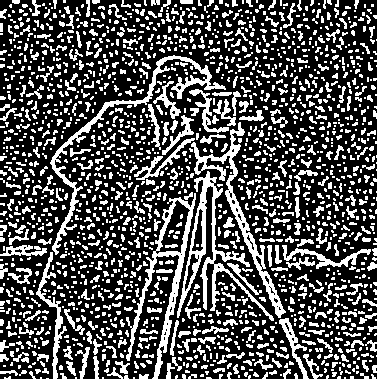
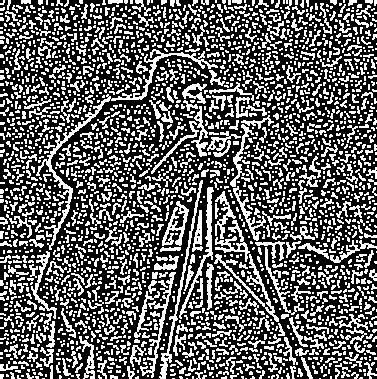
.

diff --git a/Combined/Laplacian/code.py b/Combined/Laplacian/code.py
@@ -7,7 +7,7 @@ image=cv2.cvtColor(image, cv2.COLOR_BGR2GRAY)
 kernel=np.array([[0, -1, 0], [-1, 4, -1], [0, -1, 0]])
 structural_element=np.array([[1, 1], [1, 1]])
 
-gaussian=cv2.GaussianBlur(image, (5, 5), 2)
+gaussian=cv2.GaussianBlur(image, (3, 3), 2)
 border1=cv2.filter2D(gaussian, -1, kernel)
 result, border1=cv2.threshold(border1, 0, 255, cv2.THRESH_BINARY+cv2.THRESH_OTSU)
 border1=cv2.erode(border1, structural_element, iterations=1)
@@ -16,7 +16,7 @@ border1=cv2.erode(border1, structural_element, iterations=1)
 border1=cv2.dilate(border1, structural_element, iterations=1)
 cv2.imwrite('border1.png', border1)
 
-gaussian1=cv2.GaussianBlur(image, (7, 7), 2)
+gaussian1=cv2.GaussianBlur(image, (3, 3), 2)
 gaussian2=cv2.GaussianBlur(image, (5, 5), 2)
 border2=gaussian2-gaussian1
 result, border2=cv2.threshold(border2, 0, 255, cv2.THRESH_BINARY+cv2.THRESH_OTSU)

diff --git a/Combined/Border/code.py b/Combined/Border/code.py
@@ -6,6 +6,6 @@ kernel=np.array([[1, 1, 1], [1, 1, 1], [1, 1, 1]])
 image=cv2.cvtColor(image, cv2.COLOR_BGR2GRAY)
 result, threshold=cv2.threshold(image, 0, 255, cv2.THRESH_BINARY+cv2.THRESH_OTSU)
 dilate=cv2.dilate(threshold, kernel, iterations=1)
-image=dilate-threshold
-dilate=cv2.dilate(image, kernel, iterations=1)
-cv2.imwrite('border.png', dilate)
+erode=cv2.erode(threshold, kernel, iterations=1)
+image=dilate-erode
+cv2.imwrite('border.png', image)
